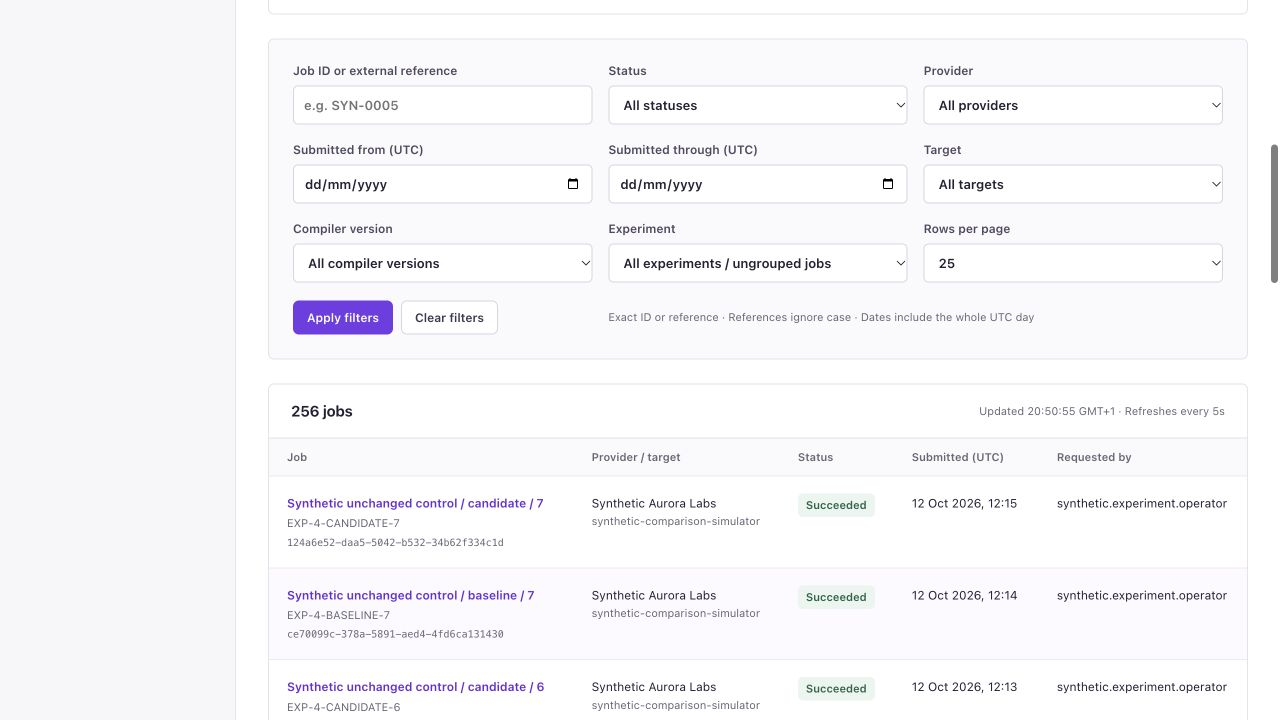
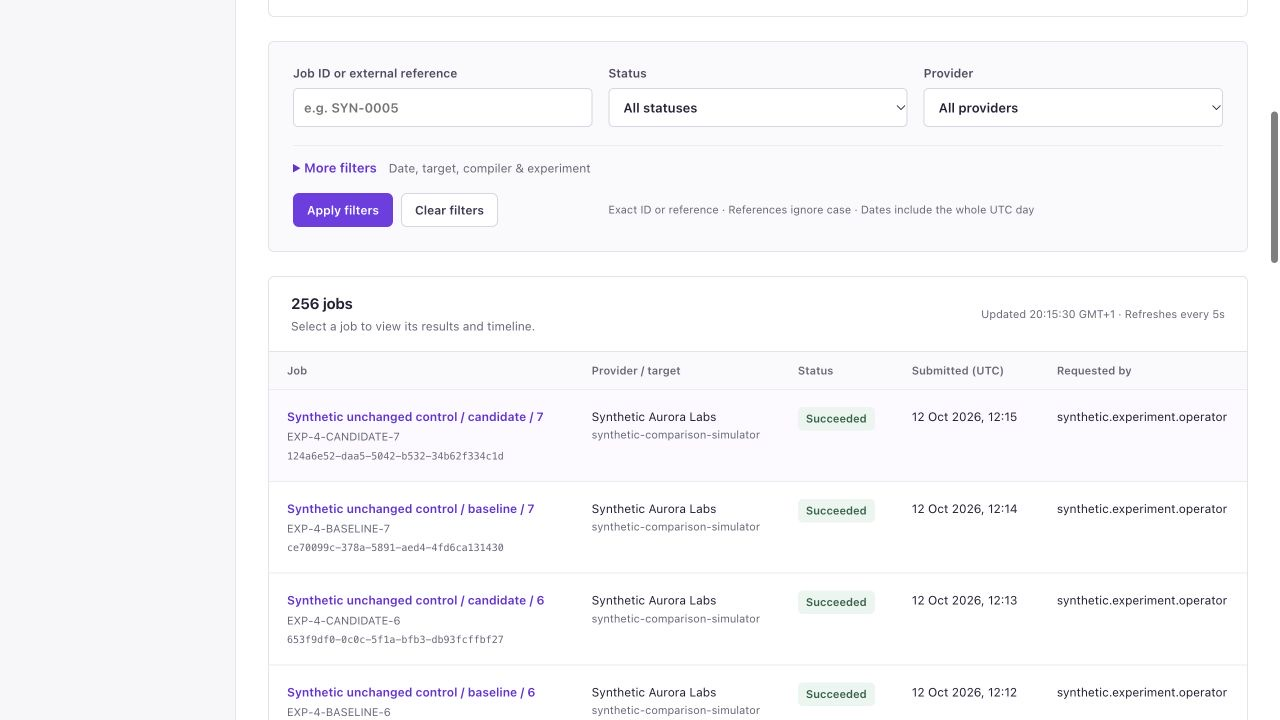
Refresh README screenshots for simplified landing page

diff --git a/README.md b/README.md
@@ -8,19 +8,19 @@ All jobs, providers, compiler metadata and results are **synthetic**. The featur
 
 ## Screenshots
 
-Screenshots captured from the public browser demo on 22 October 2026. All jobs and outcomes shown are synthetic; this independent portfolio project does not execute on real quantum hardware. The browser demo uses bundled records, while the local FastAPI/PostgreSQL application reads database records.
+Screenshots captured from the public browser demo. Introduction, jobs and operational overview refreshed on 24 October 2026; other views captured on 22 October 2026. All jobs and outcomes shown are synthetic; this independent portfolio project does not execute on real quantum hardware. The browser demo uses bundled records, while the local FastAPI/PostgreSQL application reads database records.
 
 ### Introduction and navigation
 
-The introduction defines a recorded job, explains the main pages, and links to the example comparison, implementation notes and guide.
+Start with **Open example comparison**, **Browse jobs**, or **Open Overview**. Background information and guide links sit inside **About this demo**.
 
-![Current introduction with job definition, example-comparison controls, sample-count guidance and sidebar navigation](docs/images/quantum-job-tracker-introduction.jpg)
+![Simplified introduction with clearly labelled example comparison, browse jobs and overview buttons, plus expandable demo information](docs/images/quantum-job-tracker-introduction.jpg)
 
 ### Browse and filter jobs
 
-Search and filter 256 bundled sample jobs by status, provider, submission dates, target, compiler version or experiment, then open a recorded run.
+Search 256 bundled sample jobs by ID or reference, status and provider. Expand **More filters** for submission dates, target, compiler version and experiment, then select a job to view its results and timeline.
 
-![Jobs page showing search and cohort filters, the 256-job count and recorded runs](docs/images/quantum-job-tracker-jobs-overview.jpg)
+![Jobs page showing search, status and provider controls, collapsed More filters, the 256-job count and links to recorded runs](docs/images/quantum-job-tracker-jobs-overview.jpg)
 
 ### Compare an experiment
 
@@ -47,7 +47,7 @@ Inspect the program revision, synthetic compiler version, target settings and re
 
 Check success-rate denominators, timing sample counts, failures by stage and jobs by target for the selected submission cohort.
 
-![Operational overview showing compilation and execution success rates, median queue and execution times, and breakdowns](docs/images/quantum-job-tracker-operational-overview.jpg)
+![Updated operational overview with the compact introduction, cohort filters, success rates, timing sample counts and breakdowns](docs/images/quantum-job-tracker-operational-overview.jpg)
 
 #### Demo & Guide
 
@@ -59,7 +59,7 @@ Follow the bulleted example journey, with direct links to the comparison and a v
 
 ## Demo & Guide
 
-Select **Demo & Guide** in the sidebar, or the smaller link in the Jobs/Overview introduction. The page explains what each working section is for, its main controls, a bulleted example journey, a small glossary and how to interpret the results. It is written for first-time visitors, including readers without quantum-computing knowledge, and identifies the app as an independent portfolio project using synthetic data.
+Select **Demo & Guide** in the sidebar, or **Read the demo guide** inside **About this demo** on Jobs or Overview. The page explains what each working section is for, its main controls, a bulleted example journey, a small glossary and how to interpret the results. It is written for first-time visitors, including readers without quantum-computing knowledge, and identifies the app as an independent portfolio project using synthetic data.
 
 Listed explanations use visible bullet points. Longer groups sit side by side on wider screens and stack on narrow screens to keep them readable.
 
@@ -71,9 +71,11 @@ The guide is included in the GitHub Pages browser build.
 
 ## Page navigation and example controls
 
-Jobs and Overview include **About this tracker**, which explains a recorded job and the purpose of each main page. Select **Open example comparison** to load the example with its baseline and candidate versions selected. **How to read the example** explains comparison direction, sample counts (`n`), and how to open a failed job and return with **Back to comparison**.
+Jobs and Overview include a compact **Explore a quantum run** introduction. Select **Open example comparison** to load the example with its baseline and candidate versions selected, or **Browse jobs** to inspect individual runs. Jobs also offers **Open Overview** for aggregate results.
 
-**How it works** is available in the sidebar and introduction for implementation details. **Demo & Guide** provides the longer page explanations and glossary. Expand **About the demo data** for the current data source and the distinction between bundled records and browser-only personal runs. On narrow screens, navigation wraps into rows and the introduction stacks vertically.
+Expand **About this demo** for the job definition, current data source, implementation notes and guide links. **Demo & Guide** explains comparison direction, sample counts (`n`), and how to open a failed job and return with **Back to comparison**. **How it works** is also available in the sidebar.
+
+The Jobs page keeps search, status and provider controls visible. **More filters** reveals dates, target, compiler version, experiment and rows per page; it opens automatically when an advanced filter is applied through a shared link. On narrow screens, navigation wraps into rows and the action buttons stack vertically.
 
 ## Browser demo
 
@@ -84,7 +86,7 @@ The browser build runs without installation, sign-in or an API and is hosted on 
 - Browse 256 bundled sample jobs (200 historical fixtures plus the 56-run example experiment) and filter by status, provider, submission date, or exact ID/reference.
 - Search for `syn-0005` and open the job to investigate a compilation failure and its lifecycle timeline.
 - Follow **Open example comparison** through a supporting job and its recorded timeline. The read-only comparison snapshot is generated from the existing PostgreSQL seed and calculations.
-- Optionally expand **Browser-only playground**, enter a run name, choose an outcome, and select **Create simulated run**. This immediately generates personal browser data; it is not backend submission or real execution.
+- Optionally expand **Create a simulated run**, enter a run name, choose an outcome, and select **Create simulated run**. This immediately generates personal browser data; it is not backend submission or real execution.
 - Select **Reset demo** to remove your personal runs and return to the sample workspace.
 
 Outcomes include success, compilation/queueing/execution failure, queued, running, and cancelled. Outcomes are generated immediately with fictional lifecycle timestamps; queued and running jobs remain in those states. No quantum hardware or background worker runs.
